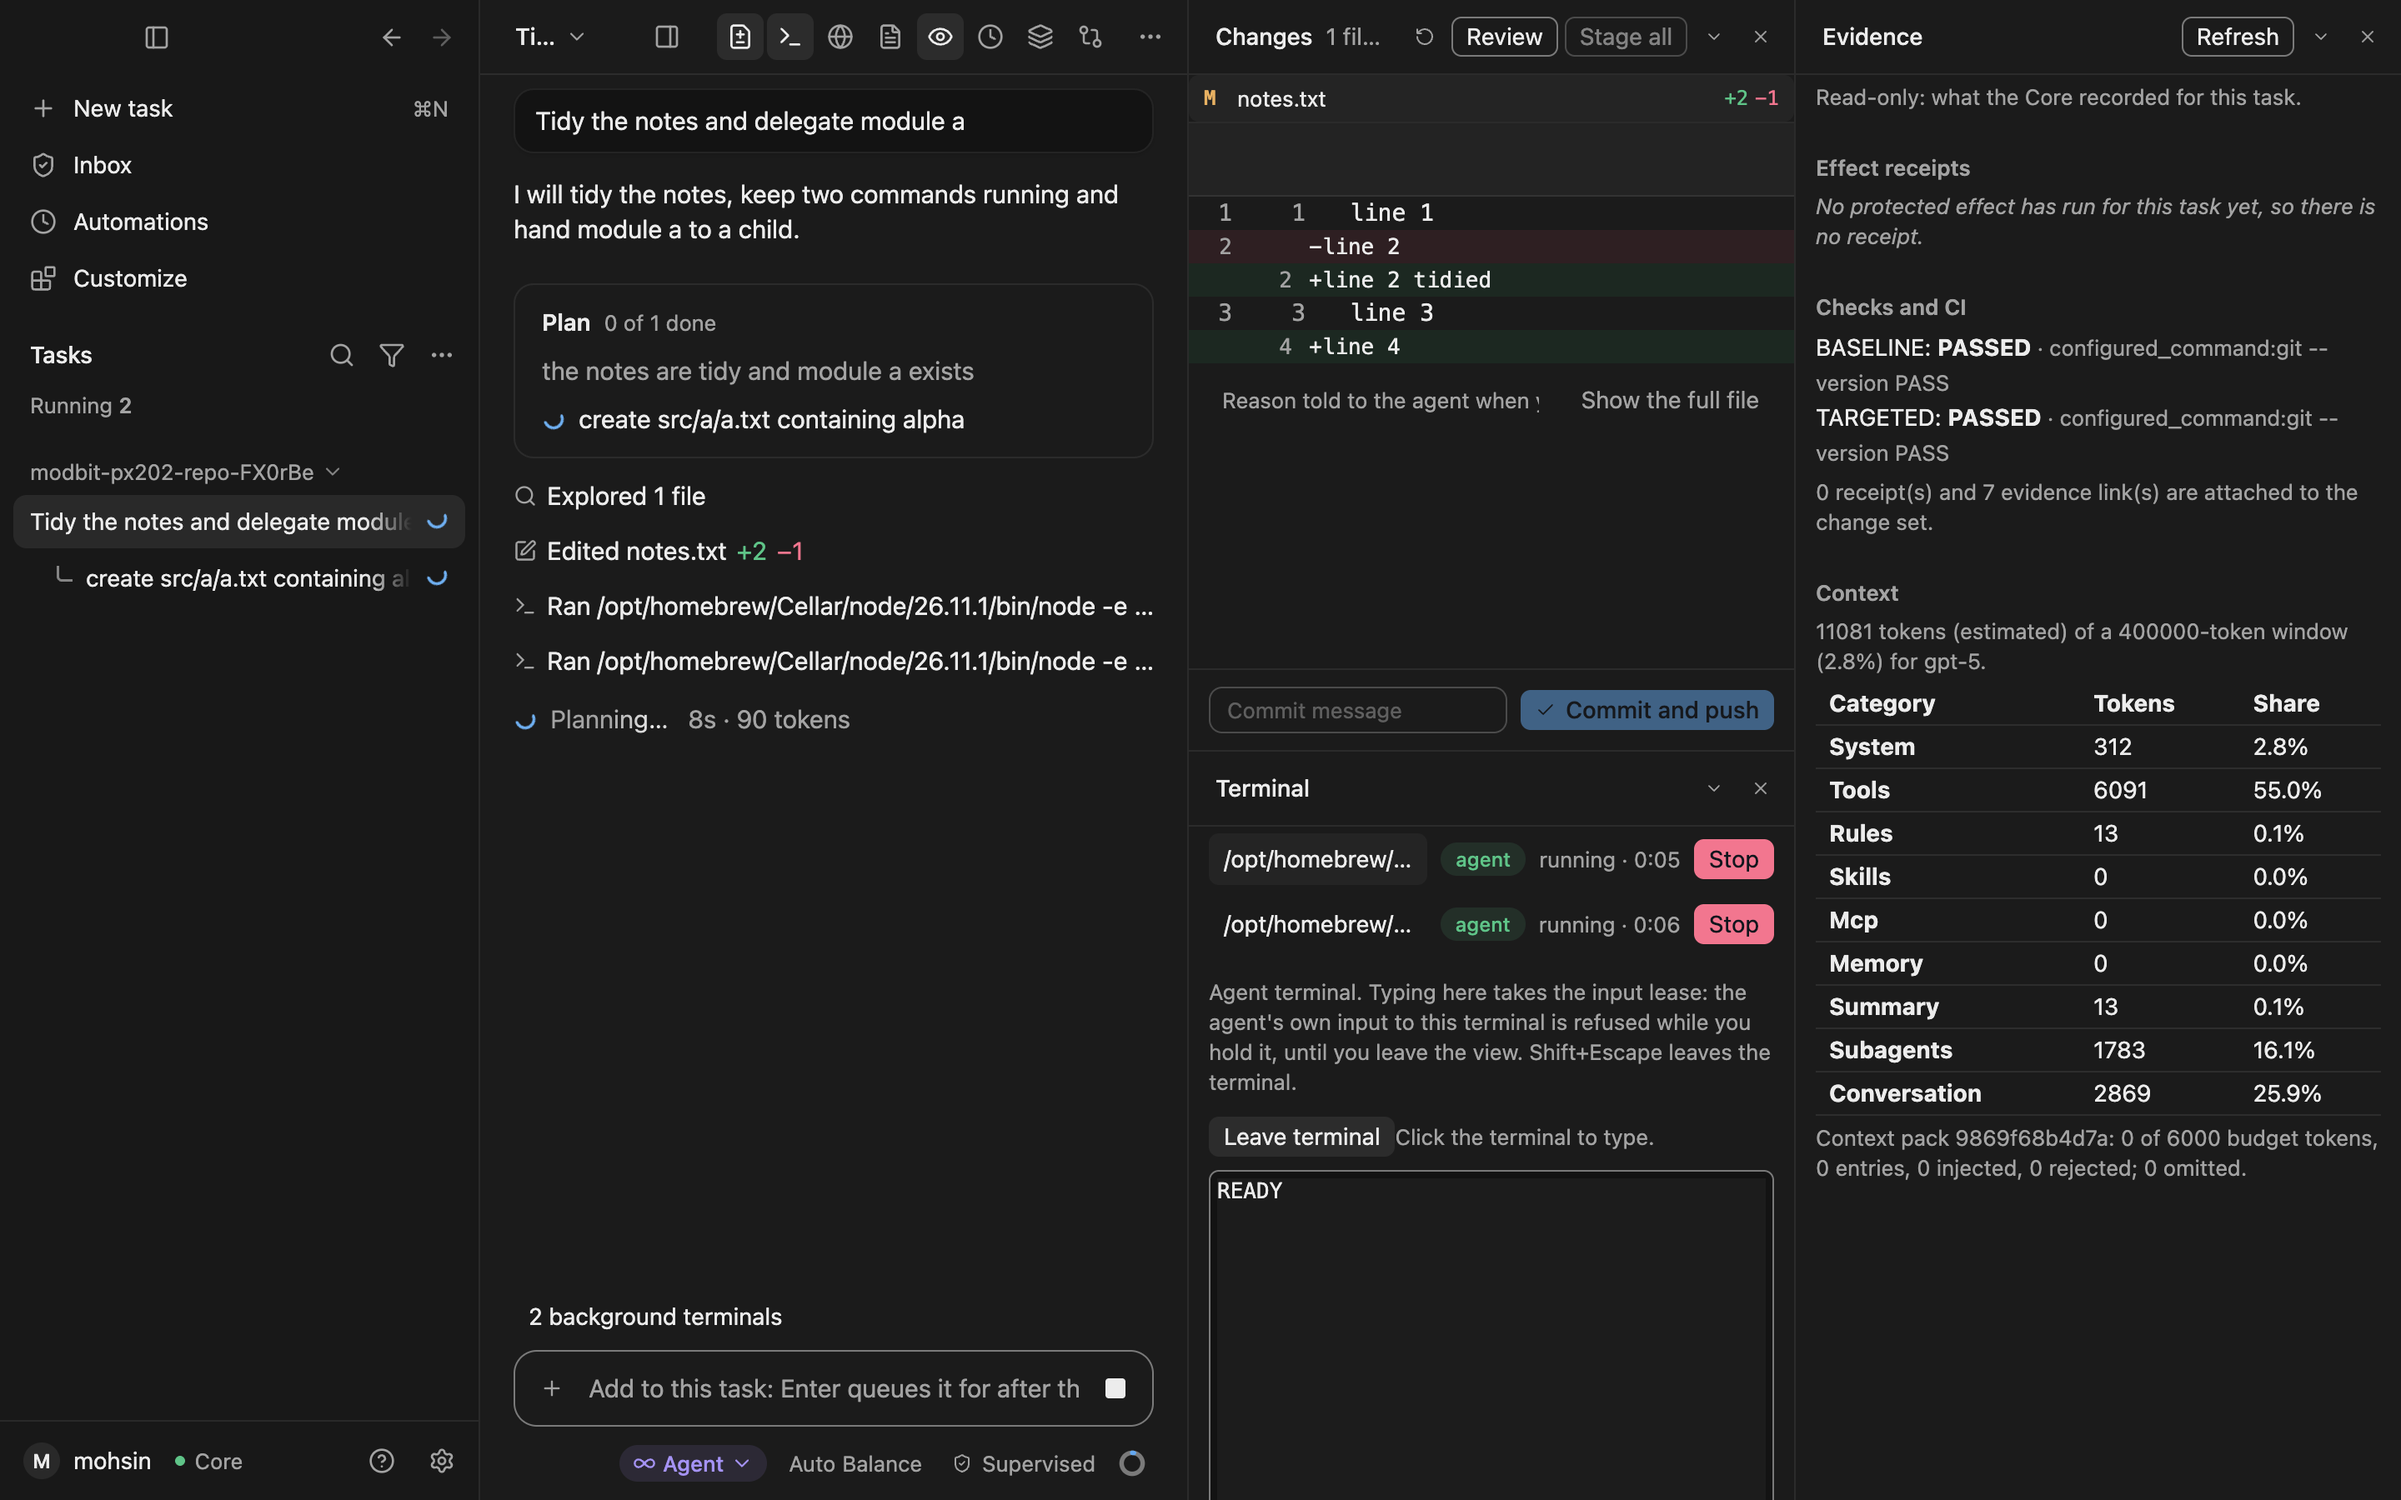
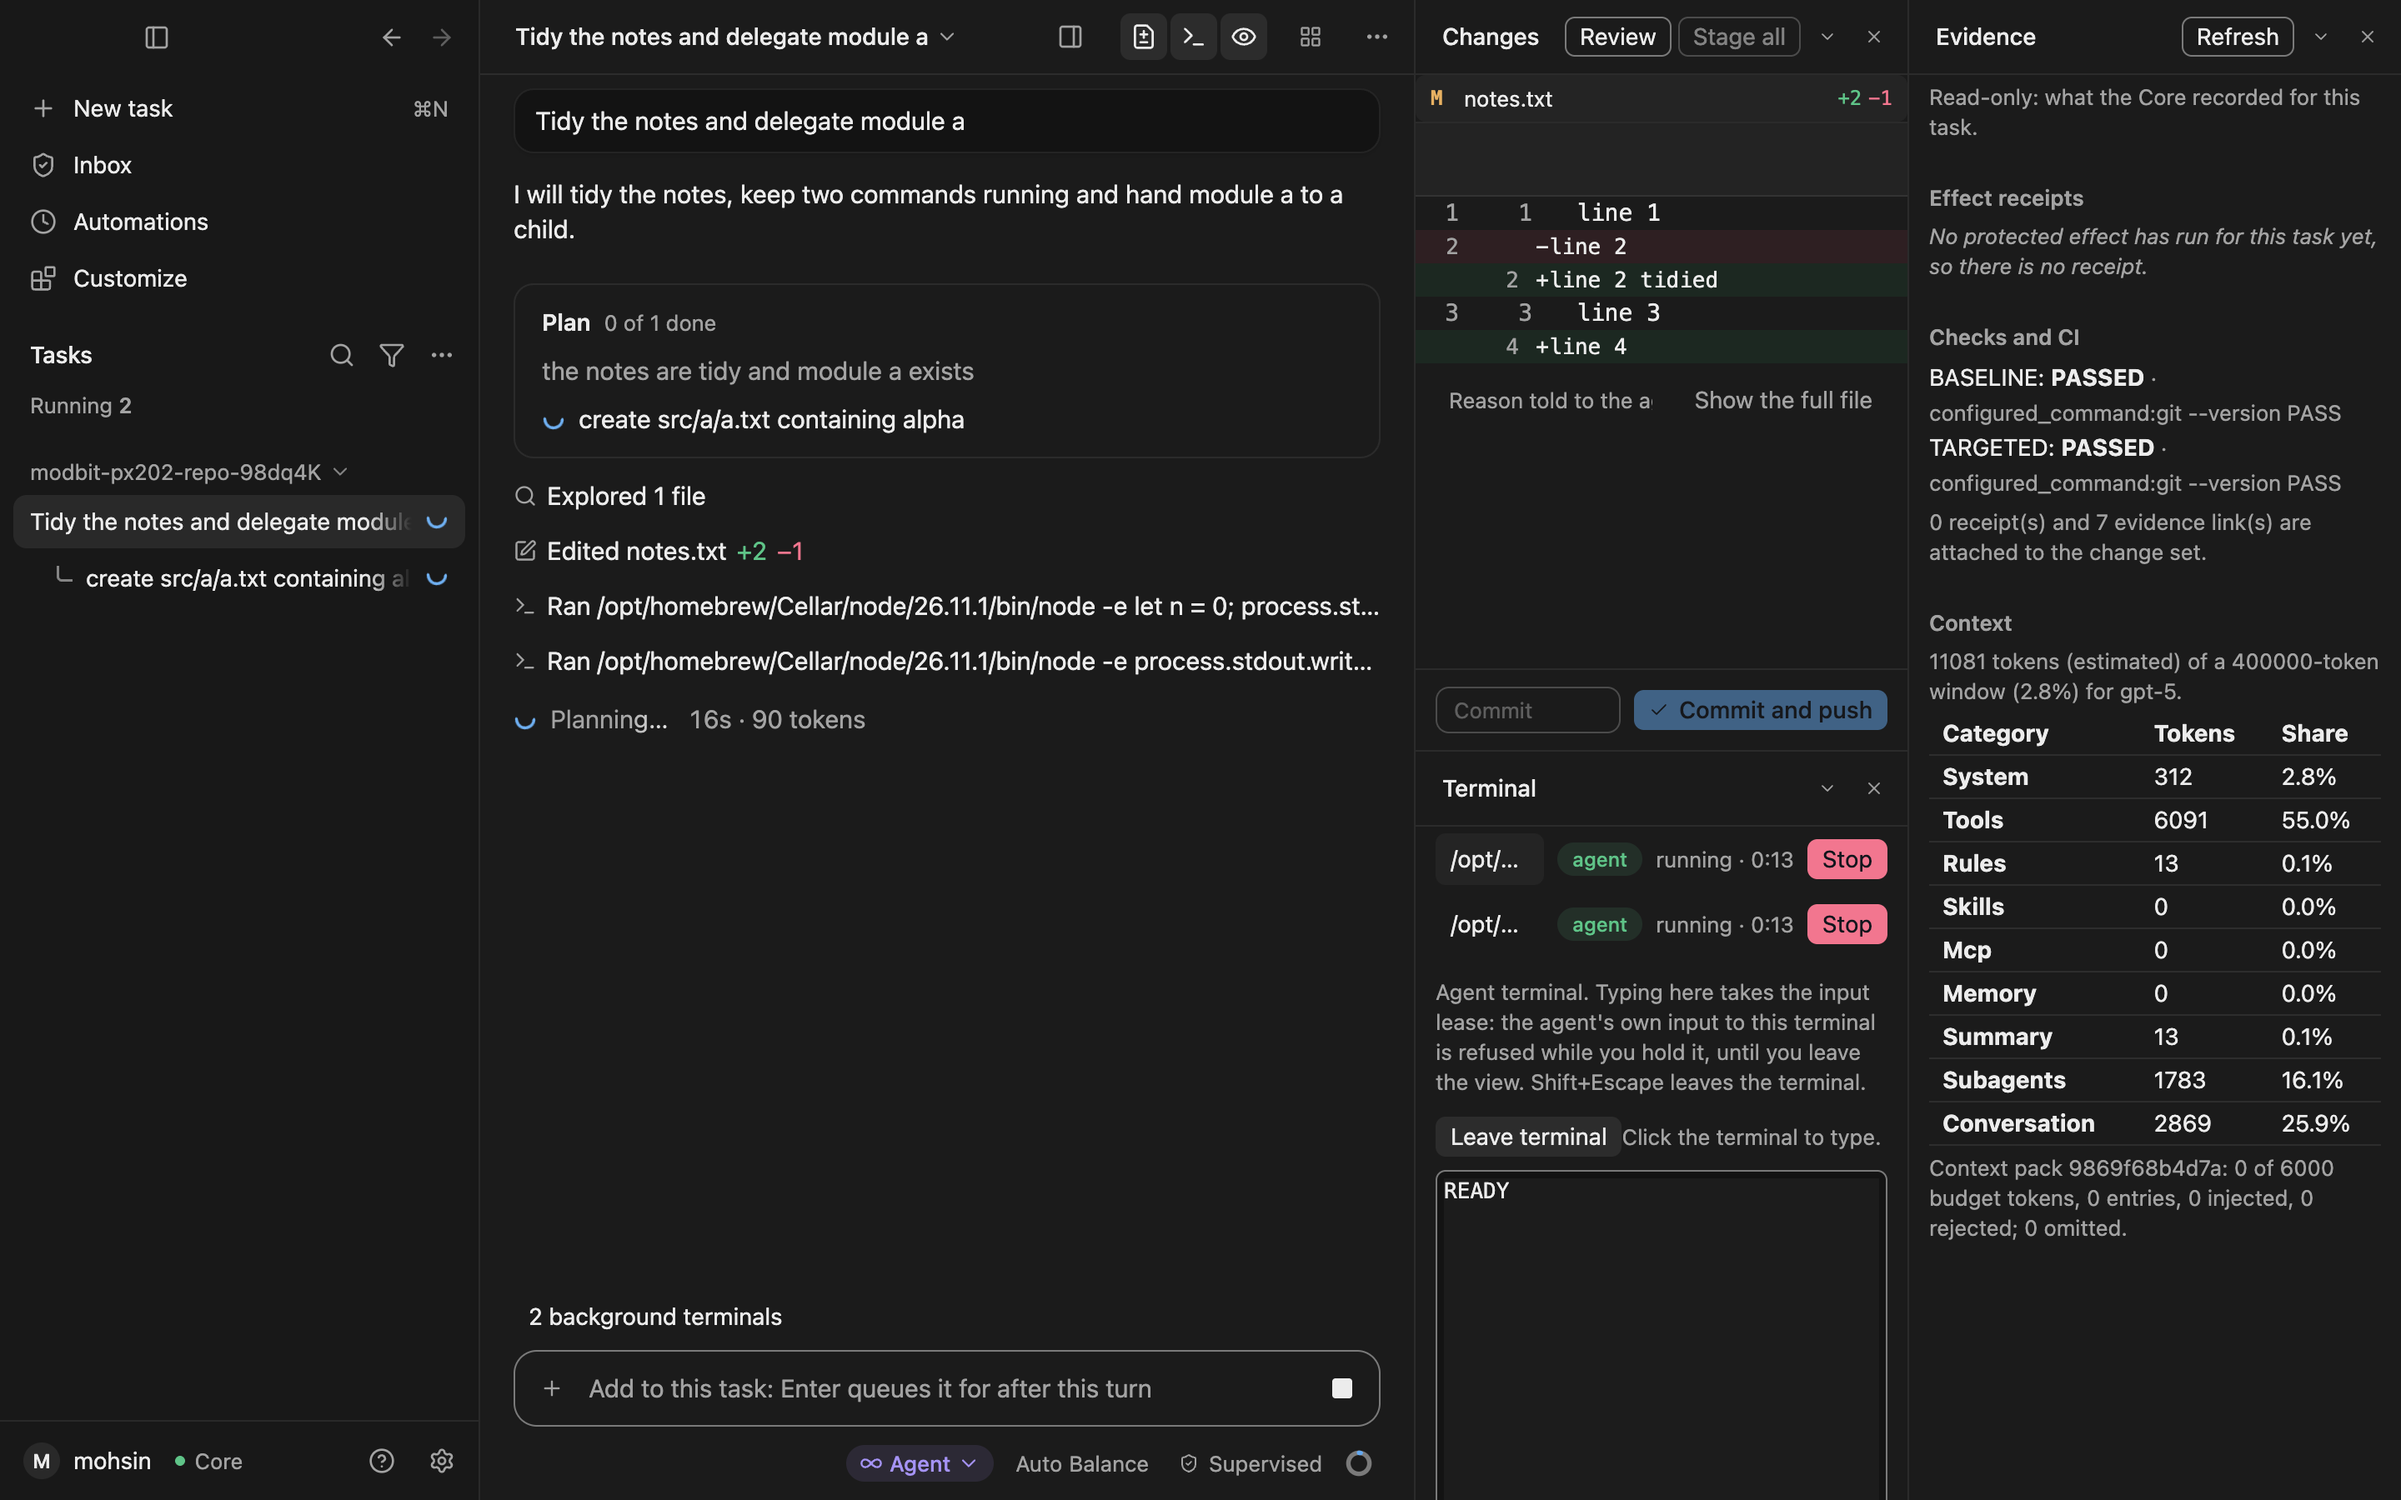
PX-202: the title bar first (owner's review): the conversation keeps 560 beside the dock, the title before the toggles, a Panes menu
The dock gives first: one column, then narrower down to one pane's 280,
then it stacks. The bar holds Details, Changes, Terminal and the open or
minimized panes; every pane is in the Panes menu with its state. The
title button's margin moved to its container so the title is not cut by
8 px. Screenshots retaken; CI runs 1 and 2 recorded.

Decision-Record: docs/decisions/DR-PX-2026-11-11-021-measured-workspace.md

diff --git a/MANIFEST.md b/MANIFEST.md
@@ -831,35 +831,35 @@ A dossier package is valid only if every path below exists with the listed SHA-2
[64 lines of base64/hex data omitted]

diff --git a/evidence/m10/PX-202/TASK_CARD.md b/evidence/m10/PX-202/TASK_CARD.md
@@ -60,7 +60,7 @@ Proof, in `px-202-pane-dock.spec.ts`: with Changes, Terminal and Evidence open, 
 
 ## Verification
 
-Unit: `@modbit/desktop` 405 of 405; `pnpm typecheck` clean. Real app, real Core, scripted model: `e2e/px-202-pane-dock.spec.ts`, 2 of 2; the gate `e2e/support/dock-gate.ts` runs in that spec and in `awl.spec.ts`. Whole desktop suite, local, macOS arm64, two runs: run 1, 204 passed, 3 failed, 2 skipped, 2 did not run (two failures were axe on the pane body, caused by this change and fixed; `secrets.spec.ts:66` passed alone and in run 2 and is not explained); run 2 on the final build, 209 passed, 0 failed, 2 skipped. Results by test in `desktop-e2e-full-results.txt`. `shell.spec.ts:25` needs `target/debug/modbit-core`: `target/debug` was linked to the prebuilt binaries for these runs.
+Unit: `@modbit/desktop` 408 of 408; `pnpm typecheck` clean. Real app, real Core, scripted model: `e2e/px-202-pane-dock.spec.ts`, 2 of 2; the gate `e2e/support/dock-gate.ts` runs in that spec and in `awl.spec.ts`. Whole desktop suite, local, macOS arm64, four runs, the last on the final build after the title-bar change: 209 passed, 0 failed, 2 skipped. The failures of the earlier runs, and which were caused by this change, are in `desktop-e2e-full-results.txt`; `secrets.spec.ts:66`, `browser-observer.spec.ts:133` and `perf-budgets.spec.ts:293` each failed once, passed alone and in the last run, and are not explained. `shell.spec.ts:25` needs `target/debug/modbit-core`: `target/debug` was linked to the prebuilt binaries for these runs.
 
 - **Changes, Terminal and Evidence open together and tile**: the three panes are on screen at once in two columns; the gate holds in light and dark, Comfortable and Compact; axe on the shell.
 - **The set and the sizes persist per task across a reload**: the separators are moved by keyboard, the boxes recorded; another task has no pane and opening one there leaves the first task's set and boxes as they were; after `page.reload()` the boxes are equal to the pixel.
@@ -97,6 +97,8 @@ Deleted because the surface was removed on purpose (the tab strip and its tools)
 
 Changed because the behaviour changed on purpose:
 
+- `gallery.spec.ts` (PX-044/045): the gallery frame at 1280 with the panel was 493 beside 499 and is 560 beside 432; the dock at its widest left the centre 424 and leaves the conversation 560.
+- `apps-panel.spec.ts` (resize): the window it narrows to, 1100, now stacks the dock (a 560 conversation and 280 of dock do not fit in 812), so the view never refitted; it widens to 1440 instead (the dock goes from 432 to 562). The assertion, that the child reports a new size, is unchanged.
 - `shell.test.ts` AFW-A06 and AFW-A08: with the dock open at 1280 the centre was 424 and the panel 568; they are 560 and 432. "A ratio that would push the centre under 424" is "under 560". The side-by-side boundary was 288 + 424 + 384 and is 288 + 560 + 280. In their place as well: the dock narrows under 384 before the conversation does, the conversation is at least 560 for widths 1128 to 1920 at four ratios, and the centre's own minimum with no dock is still 424.
 - `px-200-task-view.spec.ts`: the bar held a toggle per pane (seven) and holds Changes; the Panes menu holds the seven, each closed; Files is opened from the menu, after which its toggle stands in the bar pressed; once closed it leaves the bar. "More comes after the toggles" is "after the toggles and the Panes menu".
 - `shell.spec.ts`: "Changes, Browser, Files and Evidence each say closed" is read from each toggle where it stands, else from its entry in the Panes menu (`paneStateShown`).
@@ -126,7 +128,8 @@ No assertion was weakened.
 - **Activity.** Oldest first with the time of day; the boards are newest first with "20s ago". The filters are the kinds that have entries, with counts; the boards draw five fixed ones and a Filter button. Entries are the Core's rows and event names in words, so "Turn finished" and "Task ready for review" appear; the boards' sentences are written by hand.
 - **Background tasks.** A child's row ends in its Core state, not "step 2 of 3"; no "Clear finished"; "n finished" opens in place.
 - **Pull request.** No title, no "into main · 5 files", no durations on checks, no Address, no Auto-fix switch, no Merge when ready, no Commit and push (that is the Changes pane's): none has a Core read or belongs to this row. The checks are the forge's runs by name with the run id and commit.
-- **Title bar.** With eight toggles and a wide dock the task's title is cut short.
+- **Title bar.** The bar holds Details, Changes, Terminal and the open or minimized panes, and the Panes menu (Lucide's grid icon); the boards have no menu.
+- **Widths.** Beside the dock the conversation keeps at least 560 and the dock has the rest up to the stored ratio. At 1440 the boards' `panes-on` grid gives the conversation 0.82 parts against the panes' 1.18 (about 472 against 680); the app gives the conversation more, as the owner asked.
 - Lucide has no icon here for a pull request or for activity in the generated set; Activity uses the clock, Background tasks the layers, Pull request the compare icon.
 
 ## Differences from the Decision Record
@@ -145,9 +148,10 @@ No assertion was weakened.
   - macOS, `checkpoints.spec.ts:46`: `ENOENT` reading `a.txt` inside the poll that waits for Undo all to delete it: the file was removed between the spec's existence check and its read. A race in the spec's helper, not in the product, and not caused by this change (Undo all's path is unchanged); the helper now counts a file removed in between as absent, so the poll still waits for the same final state.
   - cloud CI_COMPATIBLE: a Rust test timed out ("timed out waiting for worker b to hold the session" in `qual_m8_2_a_worker_claims_the_lease…`). This change has no Rust; the same job failed on another branch's run 43375533349 with a different timeout. Not caused by this change.
   - After the fixes, `awl.spec.ts`, `checkpoints.spec.ts` and `px-202-pane-dock.spec.ts` passed locally (8 of 8); the whole suite was not run again locally before the second push.
+- **CI run 2** (43576230709 on 37b7703d, before the title-bar change): every job passed but rust CI_COMPATIBLE on macOS (`apps/cli/tests/lifecycle.rs:347`, `fix_17_a_background_command_keeps_the_core_up_after_its_run_ended`: the command did not report finishing on the Core that started it; this change has no Rust), desktop E2E on Windows (`task-list.spec.ts:492`: a row archived with `e` was still listed after 15 s) and desktop E2E on macOS (`composer.spec.ts:670`: the conversation did not appear after a task was started). The two desktop specs passed on the other two systems in that run and in the local full run on the final build; this change does not touch the task list, archiving or starting a task. Not explained. Ubuntu desktop E2E and the cloud job passed.
 - The proof is local (macOS arm64); CI runs are recorded in `evidence.json`.
 - Dragging a separator with the pointer is unit-proven through the model and was not driven end to end; the keyboard path was.
 - The Browser pane in the grid, a pane head at exactly 280 px with every action, and a dock that scrolls were not driven end to end.
 - A request denied on the card, an approval that expires, and Update the request were not driven end to end from the pane (the outcome of an approval is unit-proven).
 - In the stacked view (a narrow window showing the panes) the approval card is in the conversation, so the pane sends the person there.
-- The owner has not yet seen these screenshots beside the boards, which the record makes an exit criterion. The row is not COMPLETE and no graph status was set.
+- The owner saw the first screenshots and asked for the title bar to be fixed first; the screenshots in `after/` are retaken on the final build and have not been seen yet. The row is not COMPLETE and no graph status was set.
